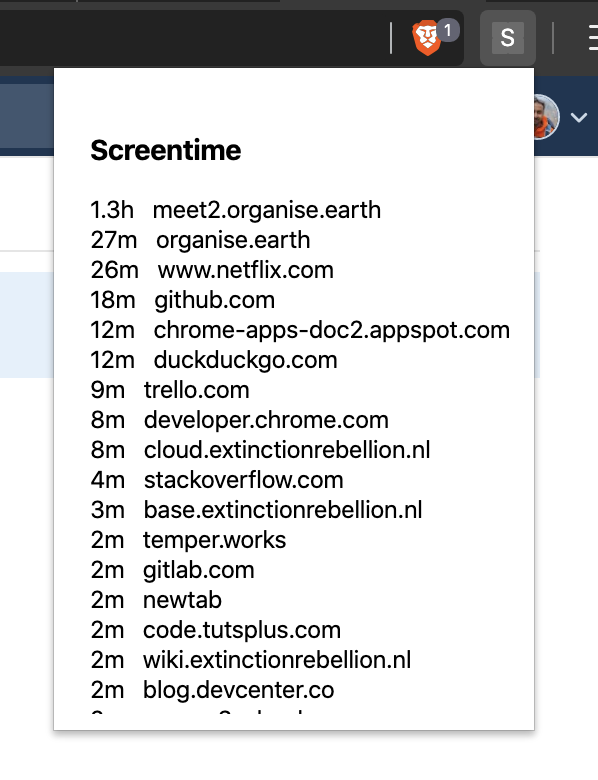
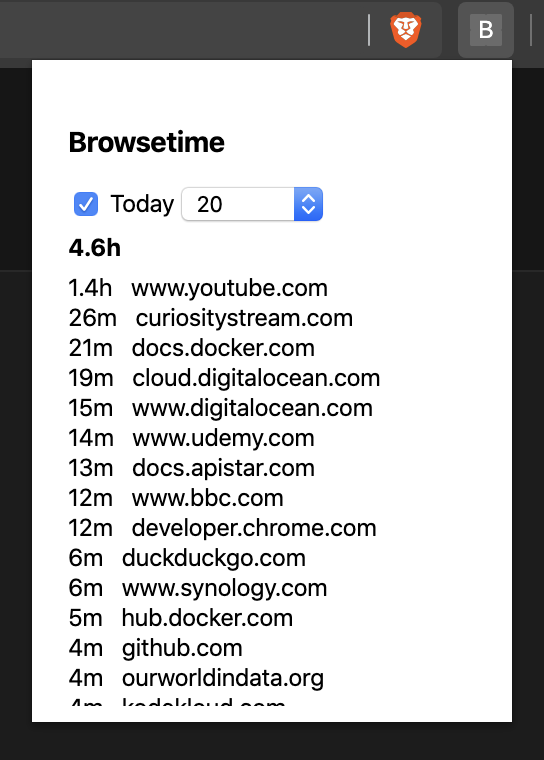
update extension name to browsetime

diff --git a/index.html b/index.html
@@ -6,7 +6,7 @@
   <meta http-equiv="X-UA-Compatible" content="IE=edge">
   <meta name="viewport" content="width=device-width,initial-scale=1.0">
   <!-- <link rel="icon" href="<%= BASE_URL %>favicon.ico"> -->
-  <title>Screentime</title>
+  <title>Browsetime</title>
   <style>
     html,
     body {
@@ -23,7 +23,7 @@
 </head>
 
 <body>
-  <h3>Screentime</h3>
+  <h3>Browsetime</h3>
   <div class="my-2">
     <label>
       <input id="filter-today" type="checkbox" name="today" /> Today

diff --git a/README.md b/README.md
@@ -1,8 +1,10 @@
-Very much inspired by https://medium.com/backticks-tildes/how-i-developed-apples-screen-time-chrome-extension-988e0c451894, but tracks all domains and the time spent on them and gives you a nice list.
+# Browsetime
+
+A chrome/brave extension to monitor how much time you spend on websites.
 
 <img src="screenshot.png" width="200" />
 
-In order to install 
+## Install
 
 1. Download the extension [here](https://gitlab.com/madhums/screentime/-/archive/master/screentime-master.zip) and unzip it
 2. Navigate to `chrome://extensions/` or `brave://extensions/`
@@ -10,4 +12,15 @@ In order to install
 4. Click on "Load unpacked" button on the top left corner, this should ask you to browse for the files.
 5. Point to the extracted files from step 1
 
-Enjoy tracking how much time you spend on each website you visit!
+Enjoy tracking how much time you spend browsing websites!
+
+## Roadmap
+
+- [ ] Display percentage change compared to yesterday, lastweek, month and it's previous time.
+- [ ] Detect idle time better (Right now idle time is still tracked but chrome doesn't provide an api that does this properly as there doesn't seem to be a proper definition of "idle")
+- [ ] Export the report to csv
+- [ ] Charting and visualisations (low prio)
+
+---
+
+Inspired by https://medium.com/backticks-tildes/how-i-developed-apples-screen-time-chrome-extension-988e0c451894
